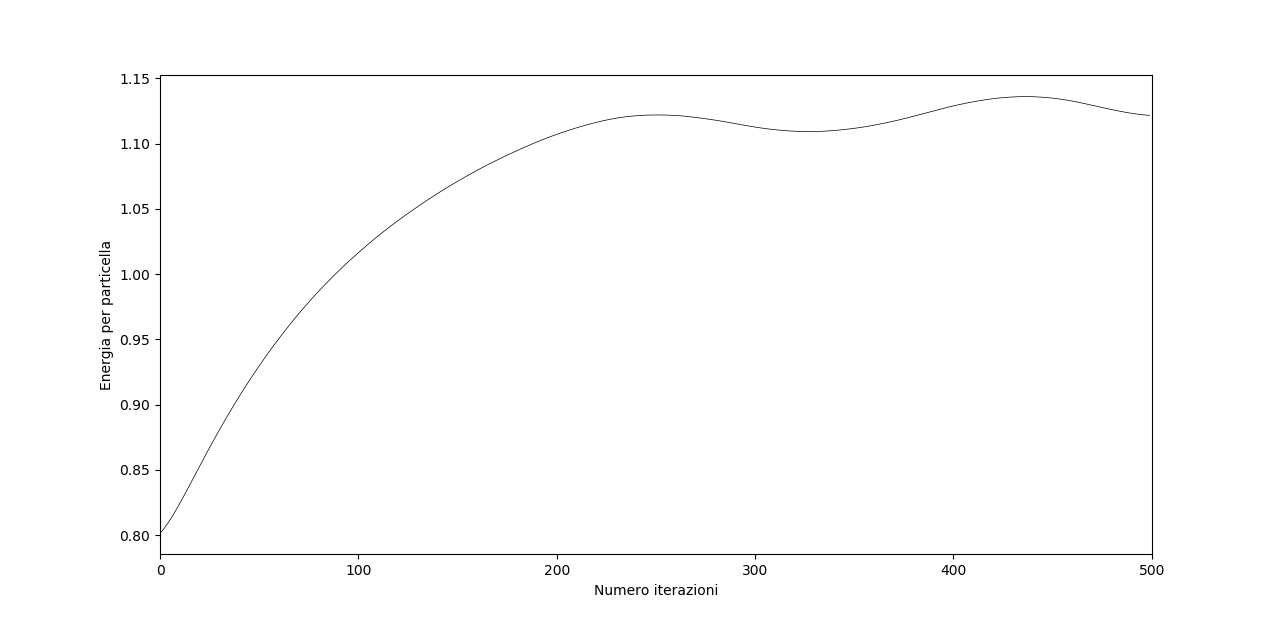
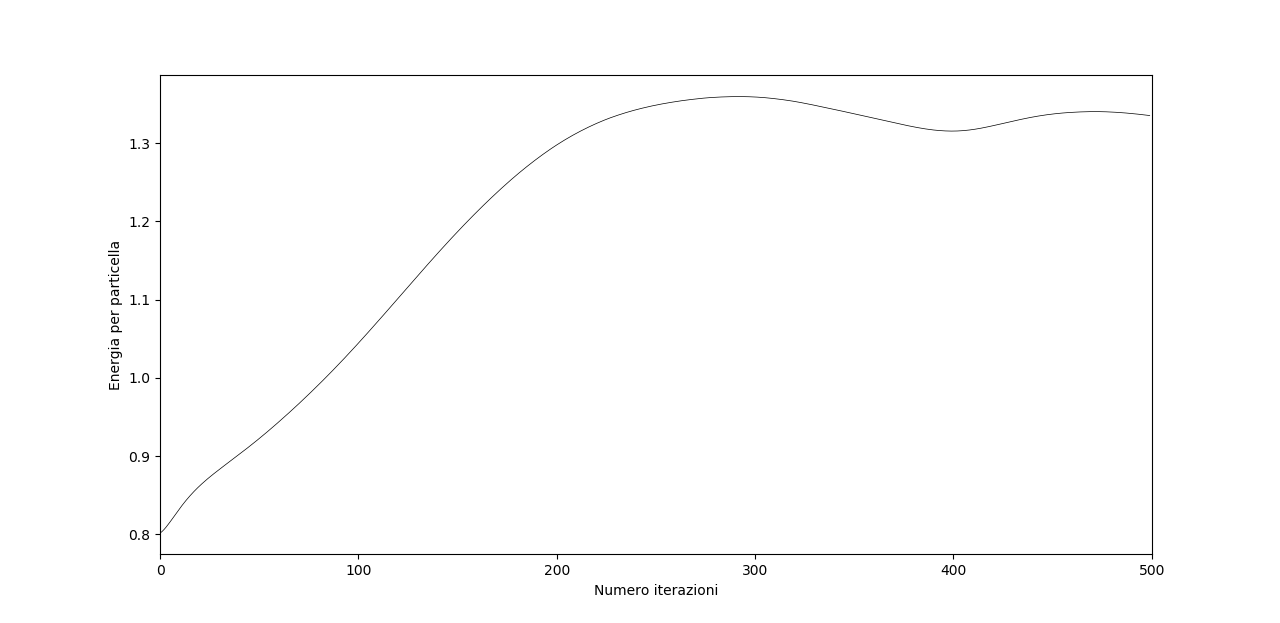
StartingConfig senza Boundary

diff --git a/StartingConfig.py b/StartingConfig.py
@@ -109,13 +109,6 @@ def calcolaF(posizioni, rc, L):
 		forza.append((fx, fy, fz))
 	return forza
 
-def controllo(coordinata, L):
-	if coordinata < 0:
-		return coordinata + L
-	if coordinata > L :
-		return coordinata - L
-	return coordinata
-
 def MDloop(rc, posizioni, velocitaStart, deltat, forze, tArrivo, L, numeroMolecole):
 	t = 0.0
 	listaEnergia = []
@@ -126,9 +119,6 @@ def MDloop(rc, posizioni, velocitaStart, deltat, forze, tArrivo, L, numeroMoleco
 			nuovaPosizX = posizione[0] + velocita[0] * deltat + 0.5 * forza[0] * (deltat ** 2)
 			nuovaPosizY = posizione[1] + velocita[1] * deltat + 0.5 * forza[1] * (deltat ** 2)
 			nuovaPosizZ = posizione[2] + velocita[2] * deltat + 0.5 * forza[2] * (deltat ** 2)
-			nuovaPosizX = controllo(nuovaPosizX,L)
-			nuovaPosizY = controllo(nuovaPosizY,L)
-			nuovaPosizZ = controllo(nuovaPosizZ,L)
 			posizNuove.append((nuovaPosizX, nuovaPosizY, nuovaPosizZ))
 		posizioni = posizNuove
 		forzeNuove = calcolaF(posizioni, rc, L)

diff --git a/Homework3.py b/Homework3.py
@@ -55,3 +55,15 @@ def calcolaF(posizioni, rc, L):
 			fz += (rz / (r ** 3)) * (1 + r) * math.exp(-r)
 		forza.append((fx, fy, fz))
 	return forza
+
+def calcolaU(posizioni, numeroMolecole, L, rc):
+    u = 0.0
+    for molecola in posizioni:
+        for molecola2 in posizioni:
+			if molecola == molecola2:
+				continue
+			r = distanza(molecola, molecola2, L)
+			if r > rc:
+				continue
+            u += (1 / r) * math.exp(-r)
+    return u
